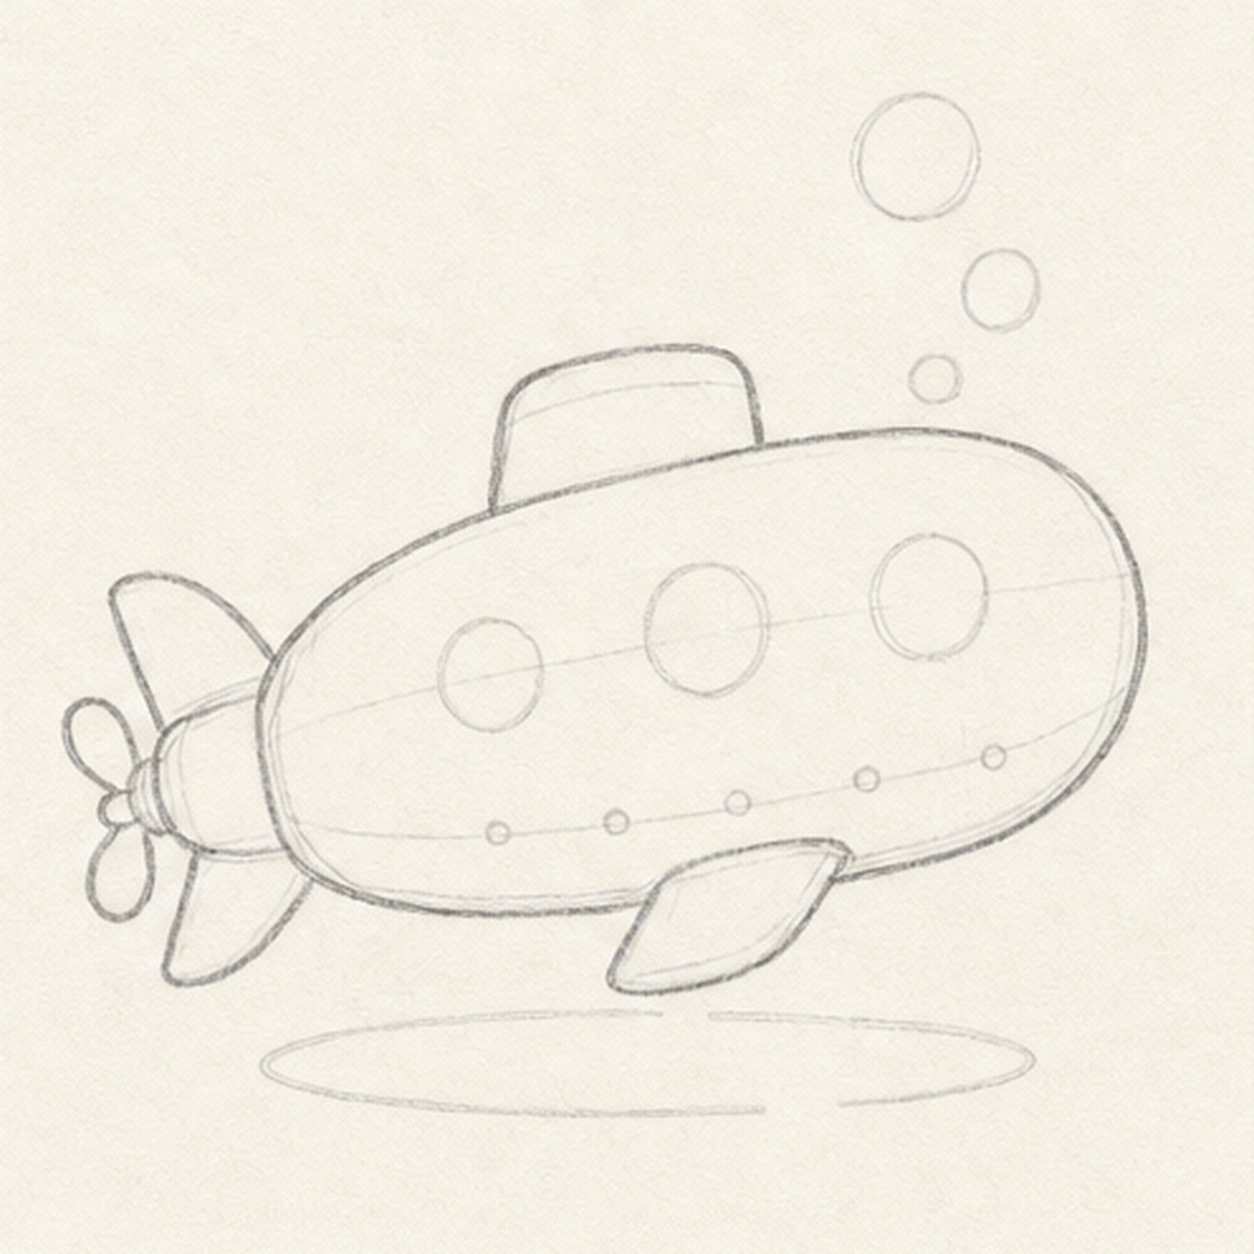
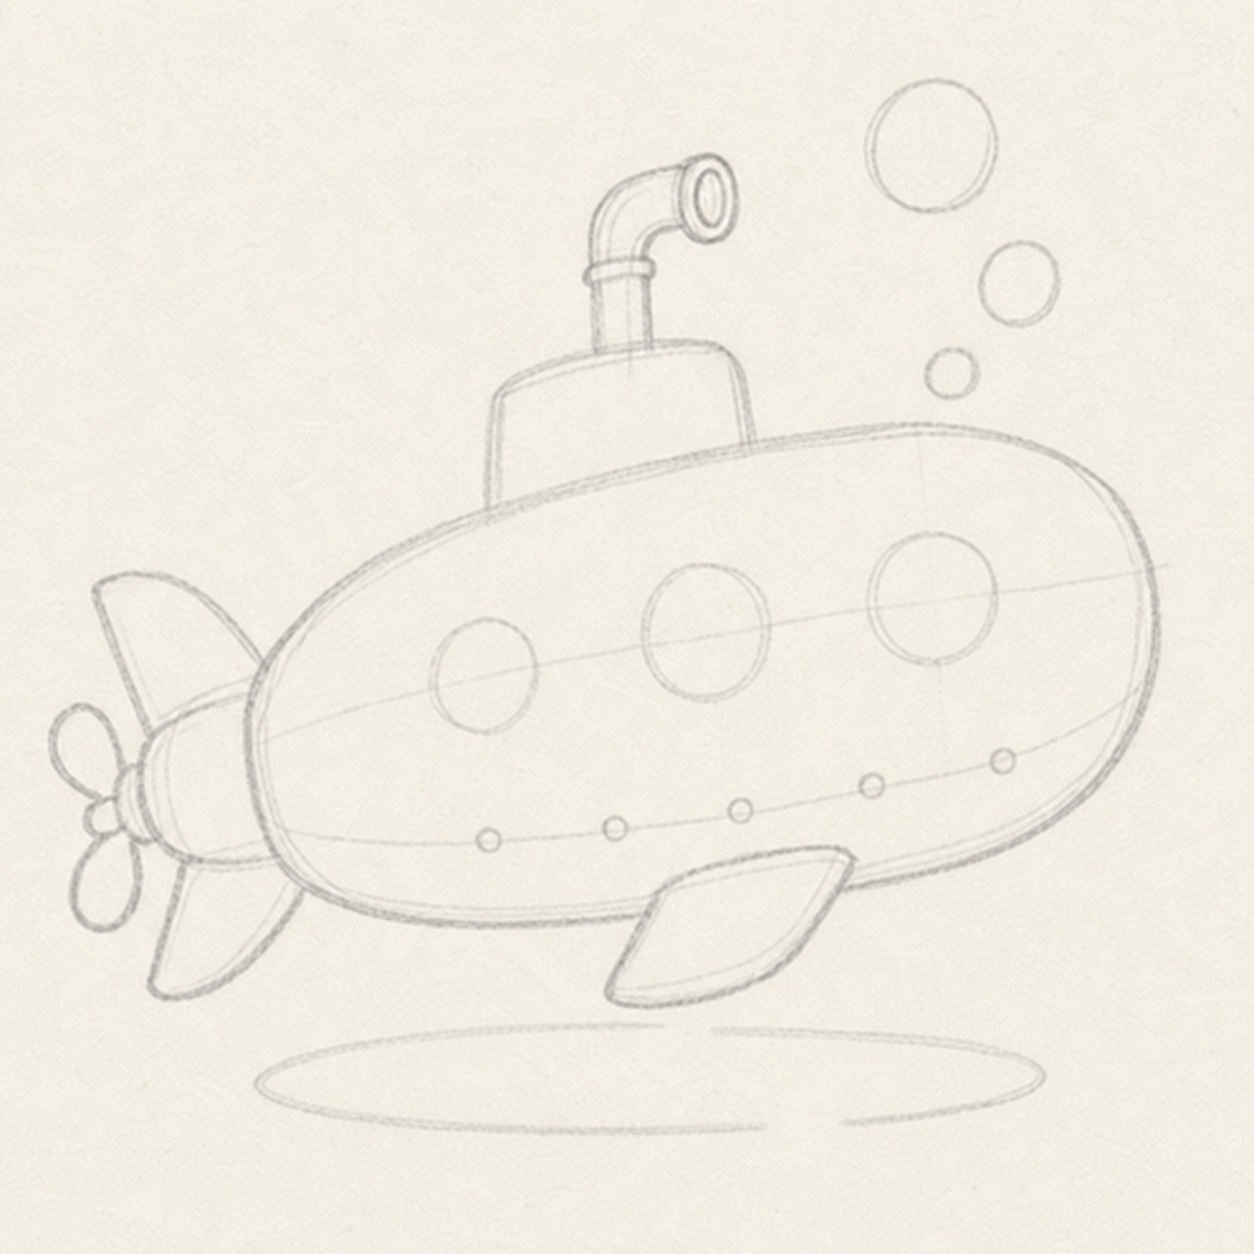
Repair submarine process continuity

diff --git a/tutorials/cartoon-submarine-with-bubbles.html b/tutorials/cartoon-submarine-with-bubbles.html
@@ -93,12 +93,12 @@
         {
           "@type": "HowToStep",
           "name": "Build the diving silhouette",
-          "text": "Wrap the guides with the rounded hull, small tower, exactly two tail fins, one three-blade propeller, and one lower side fin while preserving every feature center and bubble route."
+          "text": "Wrap the guides with the rounded hull, small tower, already mapped bent periscope, exactly two tail fins, one three-blade propeller, and one lower side fin while preserving every feature center and bubble route."
         },
         {
           "@type": "HowToStep",
           "name": "Place windows and hardware",
-          "text": "Add the bent periscope, exactly three portholes, one hull seam, exactly six rivets, and exactly three bubbles in light line before any bold inking."
+          "text": "Refine the persistent bent periscope, then add exactly three porthole rings, one hull seam, exactly six rivets, and exactly three bubbles in light line before any bold inking."
         },
         {
           "@type": "HowToStep",
@@ -211,8 +211,8 @@
             </div>
             <div class="step-copy">
               <h3>Build the diving silhouette</h3>
-              <p>Wrap the guides with the rounded hull, small tower, exactly two tail fins, one three-blade propeller, and one lower side fin while preserving every feature center and bubble route.</p>
-              <p class="artist-tip"><strong>Marker tip:</strong> Rotate the page to pull the long top and bottom hull curves in confident passes. Stop the hull contour at the side-fin overlap instead of drawing a dark line underneath a shape you will cover.</p>
+              <p>Wrap the guides with the rounded hull, small tower, already mapped bent periscope, exactly two tail fins, one three-blade propeller, and one lower side fin while preserving every feature center and bubble route.</p>
+              <p class="artist-tip"><strong>Marker tip:</strong> Rotate the page to pull the long top and bottom hull curves in confident passes. Before moving on, trace the tower into the periscope with your finger so that landmark never disappears between construction and hardware.</p>
             </div>
           </li>
           <li class="step-card">
@@ -223,8 +223,8 @@
             </div>
             <div class="step-copy">
               <h3>Place windows and hardware</h3>
-              <p>Add the bent periscope, exactly three portholes, one hull seam, exactly six rivets, and exactly three bubbles in light line before any bold inking.</p>
-              <p class="artist-tip"><strong>Marker tip:</strong> Compare the three porthole gaps rather than chasing perfect circles. Arrange the bubbles from small to large so their rhythm rises naturally without adding more circles later.</p>
+              <p>Refine the persistent bent periscope, then add exactly three porthole rings, one hull seam, exactly six rivets, and exactly three bubbles in light line before any bold inking.</p>
+              <p class="artist-tip"><strong>Marker tip:</strong> Compare the three porthole gaps rather than chasing perfect circles. Arrange the bubbles from small to large, and confirm the same periscope bend is still anchored to the tower.</p>
             </div>
           </li>
           <li class="step-card">

diff --git a/index.html b/index.html
@@ -119,8 +119,8 @@
             </div>
             <div class="step-copy">
               <h3>Build the diving silhouette</h3>
-              <p>Wrap the guides with the rounded hull, small tower, exactly two tail fins, one three-blade propeller, and one lower side fin while preserving every feature center and bubble route.</p>
-              <p class="artist-tip"><strong>Marker tip:</strong> Rotate the page to pull the long top and bottom hull curves in confident passes. Stop the hull contour at the side-fin overlap instead of drawing a dark line underneath a shape you will cover.</p>
+              <p>Wrap the guides with the rounded hull, small tower, already mapped bent periscope, exactly two tail fins, one three-blade propeller, and one lower side fin while preserving every feature center and bubble route.</p>
+              <p class="artist-tip"><strong>Marker tip:</strong> Rotate the page to pull the long top and bottom hull curves in confident passes. Before moving on, trace the tower into the periscope with your finger so that landmark never disappears between construction and hardware.</p>
             </div>
           </li>
           <li class="step-card">
@@ -131,8 +131,8 @@
             </div>
             <div class="step-copy">
               <h3>Place windows and hardware</h3>
-              <p>Add the bent periscope, exactly three portholes, one hull seam, exactly six rivets, and exactly three bubbles in light line before any bold inking.</p>
-              <p class="artist-tip"><strong>Marker tip:</strong> Compare the three porthole gaps rather than chasing perfect circles. Arrange the bubbles from small to large so their rhythm rises naturally without adding more circles later.</p>
+              <p>Refine the persistent bent periscope, then add exactly three porthole rings, one hull seam, exactly six rivets, and exactly three bubbles in light line before any bold inking.</p>
+              <p class="artist-tip"><strong>Marker tip:</strong> Compare the three porthole gaps rather than chasing perfect circles. Arrange the bubbles from small to large, and confirm the same periscope bend is still anchored to the tower.</p>
             </div>
           </li>
           <li class="step-card">

diff --git a/scripts/check-process-plan.py b/scripts/check-process-plan.py
@@ -144,6 +144,19 @@ def string_list(value: Any, slug: str, label: str) -> list[str]:
     return items
 
 
+def string_array(value: Any, slug: str, label: str) -> list[str]:
+    if not isinstance(value, list):
+        raise ValueError(f"{slug}: `{label}` must be an array")
+    items: list[str] = []
+    for index, item in enumerate(value, start=1):
+        if not isinstance(item, str) or not item.strip():
+            raise ValueError(
+                f"{slug}: `{label}` item {index} must be a non-empty string"
+            )
+        items.append(item.strip())
+    return items
+
+
 def numeric_step(path: Path) -> int:
     match = re.search(r"-step-(\d+)\.jpe?g$", path.name)
     if not match:
@@ -329,6 +342,128 @@ def validate_plan(slug: str, strict_missing: bool) -> bool:
                     f"final element {name!r} first appears in frame {first_step}, "
                     f"but plan says step {expected_step}"
                 )
+
+        schema_version = plan.get("schema_version", 1)
+        if not isinstance(schema_version, int) or schema_version < 1:
+            failures.append("`schema_version` must be a positive integer")
+            schema_version = 1
+        if schema_version >= 2:
+            overlap_reservations = plan.get("overlap_reservations")
+            if not isinstance(overlap_reservations, list):
+                failures.append("schema v2 requires `overlap_reservations` as an array")
+                overlap_reservations = []
+            for reservation_index, reservation in enumerate(
+                overlap_reservations, start=1
+            ):
+                if not isinstance(reservation, dict):
+                    failures.append(
+                        f"overlap reservation {reservation_index} must be an object"
+                    )
+                    continue
+                foreground = require_text(reservation, "foreground_element", slug)
+                if foreground not in element_names:
+                    failures.append(
+                        f"overlap reservation {reservation_index} names unknown "
+                        f"foreground element {foreground!r}"
+                    )
+                reserved_by_step = reservation.get("reserved_by_step")
+                if (
+                    not isinstance(reserved_by_step, int)
+                    or reserved_by_step < 1
+                    or (frames and reserved_by_step > len(frames))
+                ):
+                    failures.append(
+                        f"overlap reservation {foreground!r} has invalid "
+                        "`reserved_by_step`"
+                    )
+                elif (
+                    foreground in element_first_steps
+                    and reserved_by_step > element_first_steps[foreground]
+                ):
+                    failures.append(
+                        f"overlap reservation {foreground!r} is declared after the "
+                        "foreground element first appears"
+                    )
+                stop_rule = require_text(
+                    reservation, "background_lines_stop_before", slug
+                )
+                if len(stop_rule.split()) < 4:
+                    failures.append(
+                        f"overlap reservation {foreground!r} stop rule is too vague"
+                    )
+
+            transition_audit = plan.get("transition_audit")
+            if not isinstance(transition_audit, list):
+                failures.append("schema v2 requires `transition_audit` as an array")
+                transition_audit = []
+            if len(transition_audit) != len(frames):
+                failures.append(
+                    "schema v2 `transition_audit` must contain one entry for every "
+                    "adjacent transition, including the last frame to the finish"
+                )
+            for transition_index, transition in enumerate(
+                transition_audit, start=1
+            ):
+                if not isinstance(transition, dict):
+                    failures.append(
+                        f"transition audit {transition_index} must be an object"
+                    )
+                    continue
+                if transition.get("from_step") != transition_index:
+                    failures.append(
+                        f"transition audit {transition_index} has incorrect `from_step`"
+                    )
+                if transition.get("to_step") != transition_index + 1:
+                    failures.append(
+                        f"transition audit {transition_index} has incorrect `to_step`"
+                    )
+                try:
+                    must_persist = string_list(
+                        transition.get("must_persist"),
+                        slug,
+                        f"transition_audit[{transition_index}].must_persist",
+                    )
+                    new_occlusions = string_array(
+                        transition.get("new_occlusions"),
+                        slug,
+                        f"transition_audit[{transition_index}].new_occlusions",
+                    )
+                    keeper_lines_removed = string_array(
+                        transition.get("keeper_lines_removed"),
+                        slug,
+                        f"transition_audit[{transition_index}].keeper_lines_removed",
+                    )
+                except ValueError as error:
+                    failures.append(str(error))
+                    continue
+                unknown_persistent = set(must_persist) - element_names
+                if unknown_persistent:
+                    failures.append(
+                        f"transition audit {transition_index} lists unknown persistent "
+                        f"elements: {sorted(unknown_persistent)}"
+                    )
+                expected_persistent = {
+                    name
+                    for name, first_step in element_first_steps.items()
+                    if first_step <= transition_index
+                }
+                missing_persistent = expected_persistent - set(must_persist)
+                if missing_persistent:
+                    failures.append(
+                        f"transition audit {transition_index} omits previously introduced "
+                        f"elements: {sorted(missing_persistent)}"
+                    )
+                if keeper_lines_removed:
+                    failures.append(
+                        f"transition audit {transition_index} removes keeper lines: "
+                        f"{keeper_lines_removed}; revise the earlier frame instead"
+                    )
+                for occlusion_index, note in enumerate(new_occlusions, start=1):
+                    if len(note.split()) < 4:
+                        failures.append(
+                            f"transition audit {transition_index} new occlusion "
+                            f"{occlusion_index} is too vague"
+                        )
 
         final_name = require_text(final_step, "step_name", slug)
         final_asset = require_text(final_step, "asset", slug)

diff --git a/PROCESS-IMAGE-WORKFLOW.md b/PROCESS-IMAGE-WORKFLOW.md
@@ -13,6 +13,20 @@ separate from lesson writing, SEO copy, page generation, and daily publishing.
      the footprint of any covering element early, and do not render finished
      detail underneath it. Pale construction may be erased; detailed lines
      should not be drawn only to disappear in a later frame.
+   - Use plan schema v2 and complete `transition_audit` for every adjacent pair,
+     including the last process frame to the finish. List every previously
+     introduced element under `must_persist`, keep `keeper_lines_removed`
+     empty, and describe any newly created physical overlap in
+     `new_occlusions`.
+   - Once a major element or route appears, it must remain visible in every
+     later panel unless another established form physically covers it. A
+     periscope, handle, limb, prop, or other landmark may not disappear for one
+     panel and return later.
+   - For containers, compartments, folded paper, architecture, or any subject
+     with foreground objects over internal lines, fill `overlap_reservations`
+     before generating. Draw dividers and seams only up to the reserved
+     foreground silhouettes; never teach a keeper line that the reader must
+     erase to add food, props, or other later forms.
    - For any frame that will darken, ink, fill, color, shade, clean, or clarify
      existing parts, list those parts in `requires_prior_elements`; they must
      first appear in an earlier frame.
@@ -38,6 +52,11 @@ separate from lesson writing, SEO copy, page generation, and daily publishing.
 
 3. Review the contact sheet before cropping.
    - Reject sheets where the subject, pose, or proportions drift.
+   - Reject sheets where an introduced landmark disappears from any later
+     panel and then returns, even if the first and final panels match.
+   - Reject sheets where a later foreground element requires erasing an earlier
+     keeper line. Repair the earlier panel so its background lines stop at a
+     reserved silhouette.
    - Reject sheets where adjacent panels are nearly identical.
    - Reject sheets where the final introduces major structure, color, markings,
      props, or perspective that was not present earlier.

diff --git a/DAILY-PUBLISHING.md b/DAILY-PUBLISHING.md
@@ -187,7 +187,11 @@ python3 scripts/preflight-image-generation.py --slug {slug} --current-date YYYY-
 9. Write `lesson-plans/{slug}.json` from the template pattern before publishing.
    Any frame that darkens, inks, fills, colors, shades, cleans, or clarifies
    existing parts must list those parts in `requires_prior_elements`, and each
-   listed part must have an earlier `introduced_by_step`.
+   listed part must have an earlier `introduced_by_step`. Use schema v2's
+   `transition_audit` to confirm that every introduced landmark persists in
+   every later frame, that `keeper_lines_removed` stays empty, and that any
+   physical overlap is documented. Fill `overlap_reservations` before drawing
+   background seams or dividers behind later foreground objects.
 10. Generate one raster process contact sheet first. No labels, arrows, numbers,
    signatures, watermarks, or fake UI.
 11. Save the approved contact sheet under `drafts/`, crop it into `assets/`, and

diff --git a/HUMANS.md b/HUMANS.md
@@ -119,6 +119,13 @@
   the homepage features the Submarine, the library contains the Sneaker and
   Lava Lamp, both lesson finished-WebP hashes and repaired lava-lamp Step 1/2
   hashes match local reviewed files, and local `main` matches `origin/main`.
+- Owner-review correction on 2026-08-02 restored the submarine's bent
+  periscope in Step 2 so that landmark now persists from Step 1 through the
+  finish. The process-plan contract is now schema v2: every adjacent frame
+  declares what must persist, keeper-line removals are forbidden, and overlap
+  reservations prevent later foreground objects from requiring erased lines.
+  Readiness and desktop/mobile rendered QA passed; correction screenshots are
+  under `/tmp/daily-sketch-doodle-corrections-2026-08-02/`.
 
 ### 2026-06-26 — Doodlea.day went live on Andromeda/Caddy + Plausible
 - Final domain chosen: **doodlea.day** (doodle.day was the earlier name; the local
